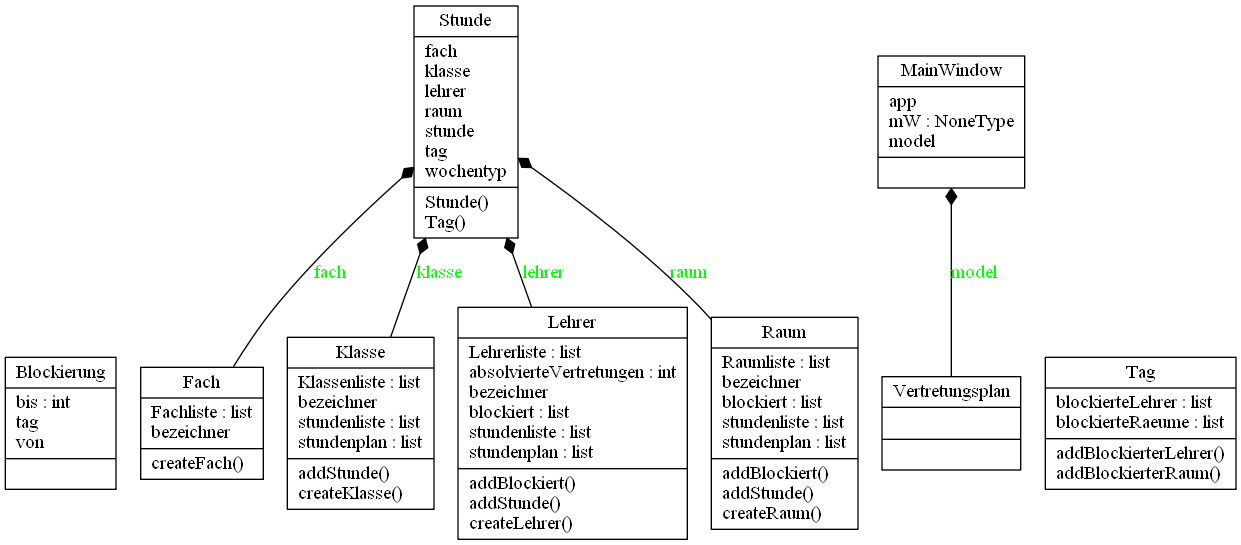
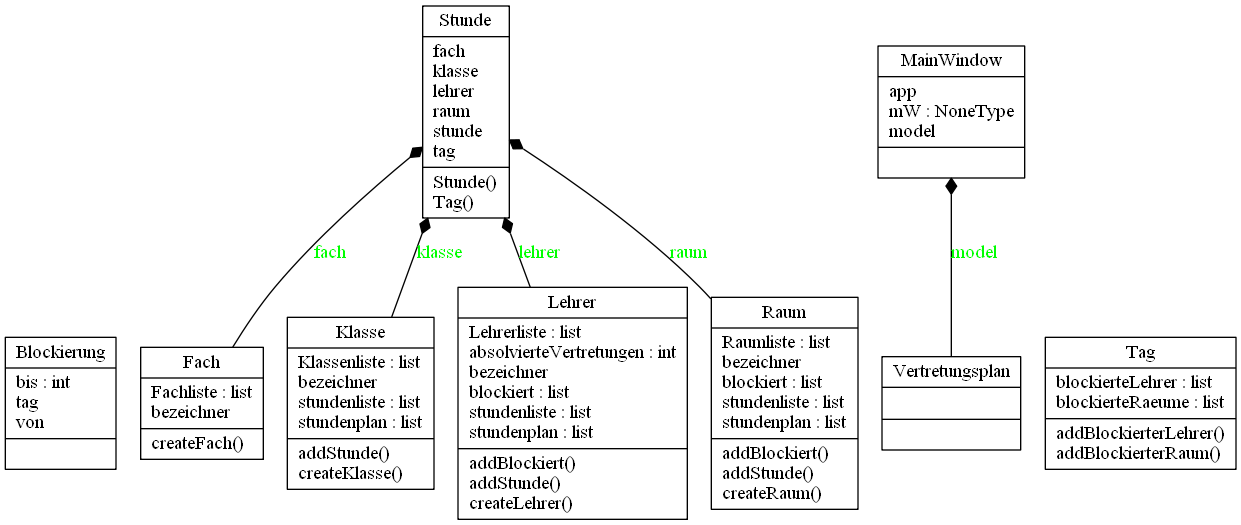
DEL: removed attribute wochtenyp from class Stunde

diff --git a/classes.py b/classes.py
@@ -16,12 +16,12 @@ class Stunde:
         #   tag (int): 0 = Montag,..., 4 = Freitag
         #   stunde (int): 0 = 1.Stunde, 1 = 2.Stunde,..., 6 = 7.Stunde (Mittagspause),...,10 = 11.Stunde
     #--------------------------------------------------
-    def __init__(self,klasse:str,raum:str,lehrer:str,fach:str,woche:int,tag:int,stunde:int):
+    def __init__(self,klasse:str,raum:str,lehrer:str,fach:str,tag:int,stunde:int):
         self.klasse = Klasse.createKlasse(klasse,self)
         self.raum = Raum.createRaum(raum,self)
         self.lehrer = Lehrer.createLehrer(lehrer,self)
         self.fach = Fach.createFach(fach)
-        self.wochentyp = woche # A-week/B-week
+        #self.wochentyp = woche # A-week/B-week
         self.tag = tag
         self.stunde = stunde
 
